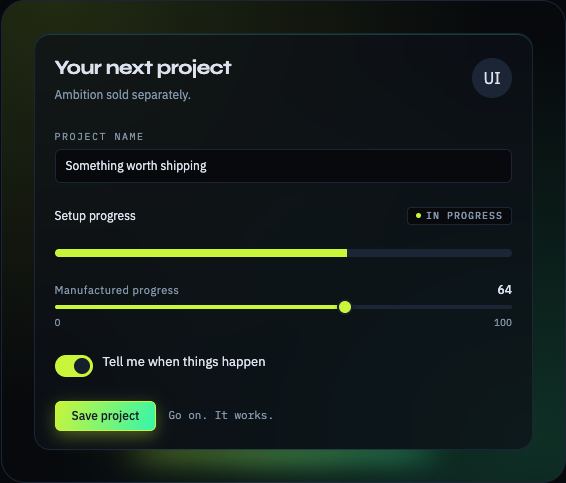
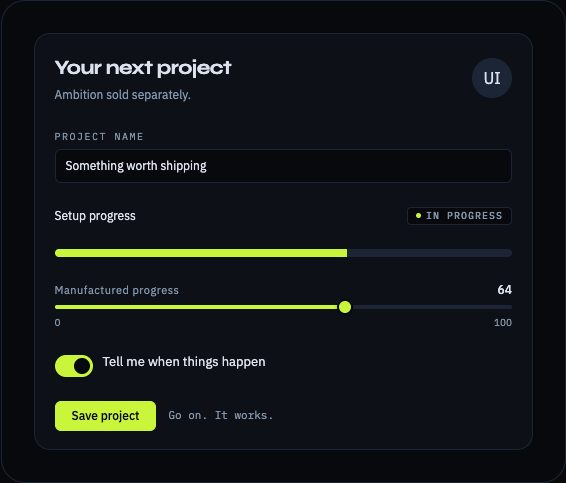
feat: refine modern gradients and coastal flat light

diff --git a/docs-site/components/Landing.tsx b/docs-site/components/Landing.tsx
@@ -1,7 +1,7 @@
 'use client';
 import { useState, type CSSProperties } from 'react';
 import { useTheme } from 'fumadocs-ui/provider/base';
-import { Avatar, Badge, Button, ButtonGroup, Card, GradientBackground, Input, Progress, PROJECTION_FLAT_THEME, FERNWOOD_FLAT_THEME, COASTAL_DAY_THEME, PROJECTION_THEME, Slider, ThemeProvider, Toggle } from '@hannasage/projection-ui/core';
+import { Avatar, Badge, Button, ButtonGroup, Card, GradientBackground, Input, Progress, PROJECTION_FLAT_THEME, COASTAL_DAY_FLAT_THEME, COASTAL_DAY_THEME, PROJECTION_THEME, Slider, ThemeProvider, Toggle } from '@hannasage/projection-ui/core';
 import '@hannasage/projection-ui/styles';
 
 export function Landing() {
@@ -12,6 +12,6 @@ export function Landing() {
   const [project,setProject] = useState('Something worth shipping');
   const [saved,setSaved] = useState(false);
   const light = resolvedTheme === 'light';
-  const theme = light ? (appearance === 'flat' ? FERNWOOD_FLAT_THEME : COASTAL_DAY_THEME) : (appearance === 'flat' ? PROJECTION_FLAT_THEME : PROJECTION_THEME);
-  return <div className="landing-shell"><header className="landing-nav"><a href="/" className="landing-wordmark">Projection UI<span aria-hidden="true">.</span></a><nav aria-label="Main navigation"><a href="/docs/">Docs</a><a href="/examples/?path=/story/gallery-components--paired">Gallery</a><button type="button" aria-label={light ? 'Switch to dark theme' : 'Switch to light theme'} onClick={() => setTheme(light ? 'dark' : 'light')}>{light ? 'Dark' : 'Light'}</button></nav></header><main id="nd-page" tabIndex={-1} className="landing-main"><section className="landing-hero" aria-labelledby="landing-title"><div className="landing-copy"><h1 id="landing-title">Yes. Another UI library.</h1><p className="landing-lead">This one has a thing for light.</p><p>React components, glass surfaces, and themes you can change without rebuilding your interface. You still have to build the app. Sorry.</p><div className="landing-actions"><a className="landing-primary" href="/docs/">Read the docs <span aria-hidden="true">↗</span></a><a href="/examples/?path=/story/gallery-components--paired">Poke the components</a></div><p className="landing-release">Alpha · 0.2.0-next.2 · Unpublished</p></div><div className="landing-demo"><div className="landing-demo-toolbar"><span>Actual components. Actual buttons.</span><ButtonGroup aria-label="Preview appearance" value={appearance} onChange={setAppearance} options={[{value:'neon',label:'Modern'},{value:'flat',label:'Flat'}]} /></div><ThemeProvider theme={theme} className="landing-preview" style={{'--ui-font': 'var(--reader-code)', '--ui-font-body': 'var(--reader-body)', '--ui-font-display': 'var(--reader-heading)', '--ui-font-mono': 'var(--reader-code)'} as CSSProperties}><GradientBackground variant="atmosphere" className="landing-preview-backdrop"><Card material="glass" edgeLight underglow className="landing-project-card"><div className="landing-card-heading"><div><h2>Your next project</h2><p>Ambition sold separately.</p></div><Avatar alt="Example profile" fallback="UI" size={40} /></div><Input label="Project name" value={project} onChange={event => {setProject(event.currentTarget.value);setSaved(false)}} /><div className="landing-progress"><span>Setup progress</span><Badge>In progress</Badge></div><Progress label="Setup progress" value={volume} /><Slider label="Manufactured progress" value={volume} onChange={setVolume} /><Toggle label="Tell me when things happen" checked={notifications} onChange={setNotifications} /><div className="landing-card-actions"><Button appearance="gradient" variant="primary" onClick={() => setSaved(true)} disabled={!project.trim()}>Save project</Button><span role="status">{saved ? 'Saved in this preview.' : 'Go on. It works.'}</span></div></Card></GradientBackground></ThemeProvider></div></section><section className="landing-details" aria-label="What is included"><div><h2>Some assembly required.</h2><p>Controls, forms, tables, charts, and a theme system. The boring parts are useful. The shiny parts are optional.</p><a href="/docs/installation/">Start with installation</a></div><div><h2>Keep the light. Or lose it.</h2><p>Modern themes add glass and edge light. Projection pairs lime with mint. Coastal Day pairs bright blue with deeper blue. Flat core themes keep solid surfaces. Your interface gets the final say.</p><a href="/docs/theming/">Explore the themes</a></div><div><h2>Alpha means alpha.</h2><p>This is an unpublished pre-release. The component interface can change. Read the contracts before introducing it to your production app.</p><a href="/docs/releases/">Read the release notes</a></div></section><section className="landing-last" aria-labelledby="landing-last-title"><h2 id="landing-last-title">The screenshots are nice.<br />The controls should be too.</h2><p>Try the paired gallery. Check the accepted inputs. Decide whether your project needs another dependency.</p><a href="/examples/?path=/story/gallery-components--paired">Open the component gallery <span aria-hidden="true">↗</span></a></section></main><footer className="landing-footer"><span>Projection UI</span><nav aria-label="Footer navigation"><a href="/docs/">Documentation</a><a href="https://github.com/hannasage/projection-ui">Source</a><a href="/font-licenses/NOTICE.txt">Font licenses</a></nav><span>Built to be used. Currently built to be tried.</span></footer></div>;
+  const theme = light ? (appearance === 'flat' ? COASTAL_DAY_FLAT_THEME : COASTAL_DAY_THEME) : (appearance === 'flat' ? PROJECTION_FLAT_THEME : PROJECTION_THEME);
+  return <div className="landing-shell"><header className="landing-nav"><a href="/" className="landing-wordmark">Projection UI<span aria-hidden="true">.</span></a><nav aria-label="Main navigation"><a href="/docs/">Docs</a><a href="/examples/?path=/story/gallery-components--paired">Gallery</a><button type="button" aria-label={light ? 'Switch to dark theme' : 'Switch to light theme'} onClick={() => setTheme(light ? 'dark' : 'light')}>{light ? 'Dark' : 'Light'}</button></nav></header><main id="nd-page" tabIndex={-1} className="landing-main"><section className="landing-hero" aria-labelledby="landing-title"><div className="landing-copy"><h1 id="landing-title">Yes. Another UI library.</h1><p className="landing-lead">This one has a thing for light.</p><p>React components, glass surfaces, and themes you can change without rebuilding your interface. You still have to build the app. Sorry.</p><div className="landing-actions"><a className="landing-primary" href="/docs/">Read the docs <span aria-hidden="true">↗</span></a><a href="/examples/?path=/story/gallery-components--paired">Poke the components</a></div><p className="landing-release">Alpha · 0.2.0-next.2 · Candidate</p></div><div className="landing-demo"><div className="landing-demo-toolbar"><span>Actual components. Actual buttons.</span><ButtonGroup aria-label="Preview appearance" value={appearance} onChange={setAppearance} options={[{value:'neon',label:'Modern'},{value:'flat',label:'Flat'}]} /></div><ThemeProvider theme={theme} className="landing-preview" style={{'--ui-font': 'var(--reader-code)', '--ui-font-body': 'var(--reader-body)', '--ui-font-display': 'var(--reader-heading)', '--ui-font-mono': 'var(--reader-code)'} as CSSProperties}><GradientBackground variant="atmosphere" className="landing-preview-backdrop"><Card material="glass" edgeLight underglow className="landing-project-card"><div className="landing-card-heading"><div><h2>Your next project</h2><p>Ambition sold separately.</p></div><Avatar alt="Example profile" fallback="UI" size={40} /></div><Input label="Project name" value={project} onChange={event => {setProject(event.currentTarget.value);setSaved(false)}} /><div className="landing-progress"><span>Setup progress</span><Badge>In progress</Badge></div><Progress label="Setup progress" value={volume} /><Slider label="Manufactured progress" value={volume} onChange={setVolume} /><Toggle label="Tell me when things happen" checked={notifications} onChange={setNotifications} /><div className="landing-card-actions"><Button appearance="gradient" variant="primary" onClick={() => setSaved(true)} disabled={!project.trim()}>Save project</Button><span role="status">{saved ? 'Saved in this preview.' : 'Go on. It works.'}</span></div></Card></GradientBackground></ThemeProvider></div></section><section className="landing-details" aria-label="What is included"><div><h2>Some assembly required.</h2><p>Controls, forms, tables, charts, and a theme system. The boring parts are useful. The shiny parts are optional.</p><a href="/docs/installation/">Start with installation</a></div><div><h2>Keep the light. Or lose it.</h2><p>Modern themes add glass and edge light. Projection adds a subtle lime gradient. Coastal Day uses a soft blue shift. Flat core themes keep solid surfaces. Your interface gets the final say.</p><a href="/docs/theming/">Explore the themes</a></div><div><h2>Alpha means alpha.</h2><p>This is an alpha pre-release. The component interface can change. Read the contracts before introducing it to your production app.</p><a href="/docs/releases/">Read the release notes</a></div></section><section className="landing-last" aria-labelledby="landing-last-title"><h2 id="landing-last-title">The screenshots are nice.<br />The controls should be too.</h2><p>Try the paired gallery. Check the accepted inputs. Decide whether your project needs another dependency.</p><a href="/examples/?path=/story/gallery-components--paired">Open the component gallery <span aria-hidden="true">↗</span></a></section></main><footer className="landing-footer"><span>Projection UI</span><nav aria-label="Footer navigation"><a href="/docs/">Documentation</a><a href="https://github.com/hannasage/projection-ui">Source</a><a href="/font-licenses/NOTICE.txt">Font licenses</a></nav><span>Built to be used. Currently built to be tried.</span></footer></div>;
 }

diff --git a/src/foundations.ts b/src/foundations.ts
@@ -4,7 +4,7 @@ const fonts = { font: "'IBM Plex Sans', sans-serif", fontBody: "'IBM Plex Sans',
 
 /** Native Figma palettes with the approved core theme refinements. */
 export const THEME_PRESETS = {
-  "projection": { ...fonts, bg: "#07090C", surface: "#0D1117", text: "#DDE3EE", muted: "#8396AB", border: "#1B2535", primary: "#C9F53A", primaryFg: "#17202A", partner: "#35F5AA", cyan: "#38D9FF", violet: "#B56AFF", pink: "#FF39AB", amber: "#FFD219", mint: "#35F5AA", success: "#35F5AA", warning: "#FFD219", danger: "#FF3D6A", mode: "dark", name: "Projection" },
+  "projection": { ...fonts, bg: "#07090C", surface: "#0D1117", text: "#DDE3EE", muted: "#8396AB", border: "#1B2535", primary: "#C9F53A", primaryFg: "#17202A", partner: "#A1F55B", cyan: "#38D9FF", violet: "#B56AFF", pink: "#FF39AB", amber: "#FFD219", mint: "#35F5AA", success: "#35F5AA", warning: "#FFD219", danger: "#FF3D6A", mode: "dark", name: "Projection" },
   "midnight-reef": { ...fonts, bg: "#021721", surface: "#062535", text: "#e2f2fa", muted: "#7abcd4", border: "#0e3c52", primary: "#FFD219", primaryFg: "#17202A", partner: "#00C8FF", cyan: "#38D9FF", violet: "#B56AFF", pink: "#FF39AB", amber: "#FFD219", mint: "#35F5AA", success: "#35F5AA", warning: "#FFD219", danger: "#FF3D6A", mode: "dark", name: "Midnight Reef" },
   "neon-arcade": { ...fonts, bg: "#0f0f23", surface: "#16162f", text: "#f4f4ff", muted: "#9aa1d8", border: "#2c2c58", primary: "#00F5D4", primaryFg: "#17202A", partner: "#B56AFF", cyan: "#38D9FF", violet: "#B56AFF", pink: "#FF39AB", amber: "#FFD219", mint: "#35F5AA", success: "#35F5AA", warning: "#FFD219", danger: "#FF3D6A", mode: "dark", name: "Neon Arcade" },
   "deep-forest": { ...fonts, bg: "#0d1612", surface: "#13211a", text: "#e8f6ee", muted: "#8ab89c", border: "#264133", primary: "#39FF88", primaryFg: "#17202A", partner: "#A4F53A", cyan: "#38D9FF", violet: "#B56AFF", pink: "#FF39AB", amber: "#FFD219", mint: "#35F5AA", success: "#35F5AA", warning: "#FFD219", danger: "#FF3D6A", mode: "dark", name: "Deep Forest" },
@@ -12,7 +12,7 @@ export const THEME_PRESETS = {
   "noir-bloom": { ...fonts, bg: "#0e0620", surface: "#180d38", text: "#f5eaff", muted: "#a080cc", border: "#2e1060", primary: "#FF39AB", primaryFg: "#17202A", partner: "#B56AFF", cyan: "#38D9FF", violet: "#B56AFF", pink: "#FF39AB", amber: "#FFD219", mint: "#35F5AA", success: "#35F5AA", warning: "#FFD219", danger: "#FF3D6A", mode: "dark", name: "Noir Bloom" },
   "dusk-protocol": { ...fonts, bg: "#1b1f2a", surface: "#242b3a", text: "#e5e9f0", muted: "#a7b0c0", border: "#3a435a", primary: "#35D9FF", primaryFg: "#17202A", partner: "#397BFF", cyan: "#38D9FF", violet: "#B56AFF", pink: "#FF39AB", amber: "#FFD219", mint: "#35F5AA", success: "#35F5AA", warning: "#FFD219", danger: "#FF3D6A", mode: "dark", name: "Dusk Protocol" },
   "pillow-fort": { ...fonts, bg: "#241529", surface: "#2e1d34", text: "#fdebf6", muted: "#c7a9c4", border: "#4b3155", primary: "#FF65D6", primaryFg: "#17202A", partner: "#FF39AB", cyan: "#38D9FF", violet: "#B56AFF", pink: "#FF39AB", amber: "#FFD219", mint: "#35F5AA", success: "#35F5AA", warning: "#FFD219", danger: "#FF3D6A", mode: "dark", name: "Pillow Fort" },
-  "coastal-day": { ...fonts, bg: "#F6FBFF", surface: "#FFFFFF", text: "#17202A", muted: "#485463", border: "#BFCBD8", primary: "#00C8FF", primaryFg: "#101820", partner: "#397BFF", cyan: "#38D9FF", violet: "#B56AFF", pink: "#FF39AB", amber: "#FFD219", mint: "#35F5AA", success: "#35F5AA", warning: "#FFD219", danger: "#FF3D6A", mode: "light", name: "Coastal Day" },
+  "coastal-day": { ...fonts, bg: "#F6FBFF", surface: "#FFFFFF", text: "#17202A", muted: "#485463", border: "#BFCBD8", primary: "#00C8FF", primaryFg: "#101820", partner: "#369FFF", cyan: "#38D9FF", violet: "#B56AFF", pink: "#FF39AB", amber: "#FFD219", mint: "#35F5AA", success: "#35F5AA", warning: "#FFD219", danger: "#FF3D6A", mode: "light", name: "Coastal Day" },
   "projection-light": { ...fonts, bg: "#F3F6F5", surface: "#FAFBFB", text: "#17202A", muted: "#485463", border: "#BFCBD8", primary: "#A4F53A", primaryFg: "#17202A", partner: "#35EB88", cyan: "#38D9FF", violet: "#B56AFF", pink: "#FF39AB", amber: "#FFD219", mint: "#35F5AA", success: "#35F5AA", warning: "#FFD219", danger: "#FF3D6A", mode: "light", name: "Fernwood" },
   "dust-and-flame": { ...fonts, bg: "#FFF9F3", surface: "#FFFFFF", text: "#17202A", muted: "#485463", border: "#BFCBD8", primary: "#FF842B", primaryFg: "#17202A", partner: "#FF479E", cyan: "#38D9FF", violet: "#B56AFF", pink: "#FF39AB", amber: "#FFD219", mint: "#35F5AA", success: "#35F5AA", warning: "#FFD219", danger: "#FF3D6A", mode: "light", name: "Dust & Flame" },
   "confetti-studio": { ...fonts, bg: "#FCF8FF", surface: "#FFFFFF", text: "#17202A", muted: "#485463", border: "#BFCBD8", primary: "#B56AFF", primaryFg: "#17202A", partner: "#FF47B7", cyan: "#38D9FF", violet: "#B56AFF", pink: "#FF39AB", amber: "#FFD219", mint: "#35F5AA", success: "#35F5AA", warning: "#FFD219", danger: "#FF3D6A", mode: "light", name: "Confetti Studio" },
@@ -38,8 +38,14 @@ export const FERNWOOD_FLAT_THEME = {
   primary: '#859900', primaryFg: '#ffffff', danger: '#dc322f',
   font: "'IBM Plex Mono', monospace",
 } as const satisfies UITheme & { name: string }
-/** Compatibility alias; the released light flat palette remains unchanged. */
-export const PROJECTION_LIGHT_FLAT_THEME = FERNWOOD_FLAT_THEME
+/** Original Coastal Day neutral palette with a solid neon-blue accent. */
+export const COASTAL_DAY_FLAT_THEME = {
+  ...COASTAL_DAY_THEME, name: 'Coastal Day Flat', appearance: 'flat',
+  bg: '#f6f8fa', surface: '#ffffff', border: '#d0d7de', text: '#24292f', muted: '#57606a',
+  primary: '#00C8FF', primaryFg: '#101820', danger: '#cf222e', font: "'IBM Plex Mono', monospace",
+} as const satisfies UITheme & { name: string }
+/** Compatibility export for the canonical blue light flat theme. */
+export const PROJECTION_LIGHT_FLAT_THEME = COASTAL_DAY_FLAT_THEME
 /** Fonts remain consumer supplied; this preset loads no font files. */
 export const DEFAULT_THEME = { ...PROJECTION_THEME, font: "'IBM Plex Mono', monospace" } as const
 

diff --git a/src/tokens/theme.css b/src/tokens/theme.css
@@ -12,7 +12,7 @@
   --ui-border: #1B2535;
   --ui-primary: #C9F53A;
   --ui-primary-fg: #17202A;
-  --ui-partner: #35F5AA;
+  --ui-partner: #A1F55B;
   --ui-cyan: #38D9FF;
   --ui-violet: #B56AFF;
   --ui-pink: #FF39AB;
@@ -21,9 +21,14 @@
   --ui-success: #35F5AA;
   --ui-warning: #FFD219;
   --ui-danger: #FF3D6A;
+  --ui-accent-end: #A1F55B;
+  --ui-accent-fill: linear-gradient(110deg, var(--ui-primary), var(--ui-accent-end));
+  --ui-accent-soft: linear-gradient(110deg, color-mix(in srgb, var(--ui-primary) 13%, transparent), color-mix(in srgb, var(--ui-accent-end) 13%, transparent));
+  --ui-surface-tint: linear-gradient(125deg, color-mix(in srgb, var(--ui-primary) 1.5%, transparent), color-mix(in srgb, var(--ui-accent-end) 1.5%, transparent));
+  --ui-field-fill: linear-gradient(125deg, color-mix(in srgb, var(--ui-primary) 2%, var(--ui-bg)), color-mix(in srgb, var(--ui-accent-end) 2%, var(--ui-bg)));
   --ui-accent-text: #C9F53A;
   --ui-gradient-start: #C9F53A;
-  --ui-gradient-end: #35F5AA;
+  --ui-gradient-end: #A1F55B;
   --ui-focus: var(--ui-primary);
   --ui-backdrop: rgba(0,0,0,0.55);
   --ui-radius-sm: 4px;
@@ -96,10 +101,12 @@ input[type="number"]::-webkit-outer-spin-button, input[type="number"]::-webkit-i
 :where([data-ui-theme]) .ui-surface {
   position: relative; isolation: isolate; background: var(--ui-surface); color: var(--ui-text);
   border: 1px solid var(--ui-border); border-radius: var(--ui-radius-lg); padding: var(--ui-space-xl);
+  background-image: var(--ui-surface-tint, none);
 }
 :where([data-ui-theme]) :is(.ui-surface[data-material="glass"], .ui-material-glass) {
   background: var(--ui-surface); background: color-mix(in srgb, var(--ui-surface) 72%, transparent);
   backdrop-filter: blur(16px); -webkit-backdrop-filter: blur(16px);
+  background-image: var(--ui-surface-tint, none);
 }
 :where([data-ui-theme]) :is(.ui-surface[data-edge-light], .ui-edge-light) {
   border-top-color: color-mix(in srgb, var(--ui-primary) 65%, var(--ui-border));
@@ -150,8 +157,8 @@ input[type="number"]::-webkit-outer-spin-button, input[type="number"]::-webkit-i
   appearance: none; -webkit-appearance: none; background: var(--ui-border); border: 0; border-radius: var(--ui-radius-full); overflow: hidden;
 }
 :where([data-ui-theme]) .ui-progress:not(:indeterminate)::-webkit-progress-bar { background: var(--ui-border); border-radius: inherit; }
-:where([data-ui-theme]) .ui-progress:not(:indeterminate)::-webkit-progress-value { background: var(--ui-primary); border-radius: inherit; }
-:where([data-ui-theme]) .ui-progress:not(:indeterminate)::-moz-progress-bar { background: var(--ui-primary); border-radius: inherit; }
+:where([data-ui-theme]) .ui-progress:not(:indeterminate)::-webkit-progress-value { background: var(--ui-accent-fill, var(--ui-primary)); border-radius: inherit; }
+:where([data-ui-theme]) .ui-progress:not(:indeterminate)::-moz-progress-bar { background: var(--ui-accent-fill, var(--ui-primary)); border-radius: inherit; }
 @media (forced-colors: active) {
   :where([data-ui-theme]) .ui-progress:not(:indeterminate) { appearance: auto; -webkit-appearance: auto; forced-color-adjust: auto; }
   :where([data-ui-theme]) .ui-progress:not(:indeterminate)::-webkit-progress-bar { background: Canvas; }
@@ -160,7 +167,7 @@ input[type="number"]::-webkit-outer-spin-button, input[type="number"]::-webkit-i
 }
 :where([data-ui-theme]) :where(.ui-material-glass, .ui-underglow) { position: relative; isolation: isolate; }
 :where([data-ui-theme]) .ui-button[data-variant="primary"][data-appearance="gradient"] {
-  background: var(--ui-primary); background-image: linear-gradient(110deg, var(--ui-primary), var(--ui-partner));
+  background: var(--ui-accent-fill, var(--ui-primary));
   box-shadow: 0 5px 16px color-mix(in srgb, var(--ui-primary) 35%, transparent);
 }
 :where([data-ui-theme]) .ui-field:focus-within {
@@ -197,6 +204,11 @@ input[type="number"]::-webkit-outer-spin-button, input[type="number"]::-webkit-i
 }
 :scope .ui-projection-glow { display: none; }
 }
+
+@media (forced-colors: active) {
+  :where([data-ui-theme]) { --ui-accent-fill: Highlight !important; --ui-accent-soft: Canvas !important; --ui-surface-tint: none !important; --ui-field-fill: Canvas !important; --ui-accent-text: CanvasText !important; }
+}
+:where([data-ui-theme][data-ui-appearance="flat"]) { --ui-accent-end: var(--ui-primary); --ui-accent-fill: var(--ui-primary); --ui-accent-soft: color-mix(in srgb, var(--ui-primary) 13%, transparent); --ui-surface-tint: none; --ui-field-fill: var(--ui-bg); }
 
 @media (prefers-reduced-motion: reduce) {
   :where([data-ui-theme]) .ui-skeleton, :where([data-ui-theme]) .ui-toast { animation: none !important; }

diff --git a/src/tokens/scoped.css b/src/tokens/scoped.css
@@ -12,7 +12,7 @@
   --ui-border: #1B2535;
   --ui-primary: #C9F53A;
   --ui-primary-fg: #17202A;
-  --ui-partner: #35F5AA;
+  --ui-partner: #A1F55B;
   --ui-cyan: #38D9FF;
   --ui-violet: #B56AFF;
   --ui-pink: #FF39AB;
@@ -21,9 +21,14 @@
   --ui-success: #35F5AA;
   --ui-warning: #FFD219;
   --ui-danger: #FF3D6A;
+  --ui-accent-end: #A1F55B;
+  --ui-accent-fill: linear-gradient(110deg, var(--ui-primary), var(--ui-accent-end));
+  --ui-accent-soft: linear-gradient(110deg, color-mix(in srgb, var(--ui-primary) 13%, transparent), color-mix(in srgb, var(--ui-accent-end) 13%, transparent));
+  --ui-surface-tint: linear-gradient(125deg, color-mix(in srgb, var(--ui-primary) 1.5%, transparent), color-mix(in srgb, var(--ui-accent-end) 1.5%, transparent));
+  --ui-field-fill: linear-gradient(125deg, color-mix(in srgb, var(--ui-primary) 2%, var(--ui-bg)), color-mix(in srgb, var(--ui-accent-end) 2%, var(--ui-bg)));
   --ui-accent-text: #C9F53A;
   --ui-gradient-start: #C9F53A;
-  --ui-gradient-end: #35F5AA;
+  --ui-gradient-end: #A1F55B;
   --ui-focus: var(--ui-primary);
   --ui-backdrop: rgba(0,0,0,0.55);
   --ui-radius-sm: 4px;
@@ -94,10 +99,12 @@
 :where([data-ui-theme]) .ui-surface {
   position: relative; isolation: isolate; background: var(--ui-surface); color: var(--ui-text);
   border: 1px solid var(--ui-border); border-radius: var(--ui-radius-lg); padding: var(--ui-space-xl);
+  background-image: var(--ui-surface-tint, none);
 }
 :where([data-ui-theme]) :is(.ui-surface[data-material="glass"], .ui-material-glass) {
   background: var(--ui-surface); background: color-mix(in srgb, var(--ui-surface) 72%, transparent);
   backdrop-filter: blur(16px); -webkit-backdrop-filter: blur(16px);
+  background-image: var(--ui-surface-tint, none);
 }
 :where([data-ui-theme]) :is(.ui-surface[data-edge-light], .ui-edge-light) {
   border-top-color: color-mix(in srgb, var(--ui-primary) 65%, var(--ui-border));
@@ -148,8 +155,8 @@
   appearance: none; -webkit-appearance: none; background: var(--ui-border); border: 0; border-radius: var(--ui-radius-full); overflow: hidden;
 }
 :where([data-ui-theme]) .ui-progress:not(:indeterminate)::-webkit-progress-bar { background: var(--ui-border); border-radius: inherit; }
-:where([data-ui-theme]) .ui-progress:not(:indeterminate)::-webkit-progress-value { background: var(--ui-primary); border-radius: inherit; }
-:where([data-ui-theme]) .ui-progress:not(:indeterminate)::-moz-progress-bar { background: var(--ui-primary); border-radius: inherit; }
+:where([data-ui-theme]) .ui-progress:not(:indeterminate)::-webkit-progress-value { background: var(--ui-accent-fill, var(--ui-primary)); border-radius: inherit; }
+:where([data-ui-theme]) .ui-progress:not(:indeterminate)::-moz-progress-bar { background: var(--ui-accent-fill, var(--ui-primary)); border-radius: inherit; }
 @media (forced-colors: active) {
   :where([data-ui-theme]) .ui-progress:not(:indeterminate) { appearance: auto; -webkit-appearance: auto; forced-color-adjust: auto; }
   :where([data-ui-theme]) .ui-progress:not(:indeterminate)::-webkit-progress-bar { background: Canvas; }
@@ -158,7 +165,7 @@
 }
 :where([data-ui-theme]) :where(.ui-material-glass, .ui-underglow) { position: relative; isolation: isolate; }
 :where([data-ui-theme]) .ui-button[data-variant="primary"][data-appearance="gradient"] {
-  background: var(--ui-primary); background-image: linear-gradient(110deg, var(--ui-primary), var(--ui-partner));
+  background: var(--ui-accent-fill, var(--ui-primary));
   box-shadow: 0 5px 16px color-mix(in srgb, var(--ui-primary) 35%, transparent);
 }
 :where([data-ui-theme]) .ui-field:focus-within {
@@ -195,6 +202,11 @@
 }
 :scope .ui-projection-glow { display: none; }
 }
+
+@media (forced-colors: active) {
+  :where([data-ui-theme]) { --ui-accent-fill: Highlight !important; --ui-accent-soft: Canvas !important; --ui-surface-tint: none !important; --ui-field-fill: Canvas !important; --ui-accent-text: CanvasText !important; }
+}
+:where([data-ui-theme][data-ui-appearance="flat"]) { --ui-accent-end: var(--ui-primary); --ui-accent-fill: var(--ui-primary); --ui-accent-soft: color-mix(in srgb, var(--ui-primary) 13%, transparent); --ui-surface-tint: none; --ui-field-fill: var(--ui-bg); }
 
 @media (prefers-reduced-motion: reduce) {
   :where([data-ui-theme]) .ui-skeleton, :where([data-ui-theme]) .ui-toast { animation: none !important; }

diff --git a/stories/Themes.stories.tsx b/stories/Themes.stories.tsx
@@ -1,6 +1,6 @@
 import { useState } from 'react'
 import type { Meta, StoryObj } from '@storybook/react'
-import { Badge, Button, FERNWOOD_FLAT_THEME, PROJECTION_FLAT_THEME, Card, GradientBackground, GradientText, Surface, THEME_PRESETS, ThemeProvider } from '@hannasage/projection-ui/core'
+import { Badge, Button, COASTAL_DAY_FLAT_THEME, FERNWOOD_FLAT_THEME, PROJECTION_FLAT_THEME, Card, GradientBackground, GradientText, Surface, THEME_PRESETS, ThemeProvider } from '@hannasage/projection-ui/core'
 const meta: Meta = { title: 'Foundations/Themes', parameters: { layout: 'fullscreen' } }
 export default meta
 export const Presets: StoryObj = { render: () => <main className="component-gallery"><h1>Theme presets</h1><p>Every preset supplies the same theme roles.</p><div className="theme-presets">{Object.entries(THEME_PRESETS).map(([id, theme]) => <ThemeProvider key={id} theme={theme}><h2 style={{marginTop:0}}>{theme.name}</h2><p>{theme.mode === 'light' ? 'Light' : 'Dark'} theme</p><Card material="glass" edgeLight><Badge>Preview</Badge><p>Clear type and a quiet material.</p><Button appearance="gradient" onClick={event => { event.currentTarget.textContent = 'Selected' }}>Select preset</Button></Card></ThemeProvider>)}</div></main> }
@@ -8,7 +8,7 @@ export const Materials: StoryObj = { render: () => <main className="component-ga
 export const Gradients: StoryObj = { render: () => <main className="component-gallery"><h1>Gradient backgrounds</h1><ThemeProvider theme={THEME_PRESETS.projection}><div className="theme-presets">{(['wash','spotlight','horizon','atmosphere'] as const).map(variant => <GradientBackground key={variant} variant={variant} style={{padding:24,minHeight:180}}><h2 style={{marginTop:0}}>{variant}</h2><GradientText>Projection UI</GradientText></GradientBackground>)}</div></ThemeProvider></main> }
 export const Typography: StoryObj = { render: () => <main className="component-gallery"><h1>Typography</h1><ThemeProvider theme={THEME_PRESETS.projection} style={{padding:24}}><h2 style={{fontFamily:'var(--ui-font-display)'}}>Syne · A clear point of view</h2><p style={{fontFamily:'var(--ui-font-body)',maxWidth:'68ch'}}>IBM Plex Sans carries reading text. Compact headings keep the page calm. Give related controls a close rhythm, then leave space before the next subject.</p><pre style={{fontFamily:'var(--ui-font-mono)',whiteSpace:'pre-wrap'}}>IBM Plex Mono · --ui-font-mono</pre></ThemeProvider></main> }
 
-export const Flat: StoryObj = { render: () => <main className="component-gallery"><h1>Flat core themes</h1><p>The original core palettes with solid surfaces.</p><div className="theme-presets">{[{name:'Fernwood Flat',theme:FERNWOOD_FLAT_THEME},{name:'Projection Flat',theme:PROJECTION_FLAT_THEME}].map(({name,theme}) => <ThemeProvider key={name} theme={theme}><h2 style={{marginTop:0}}>{name}</h2><Card material="glass" edgeLight underglow><p>Flat appearance keeps surfaces solid and removes decorative light.</p><Button appearance="gradient" onClick={event => {event.currentTarget.textContent = 'Selected'}}>Select flat theme</Button></Card></ThemeProvider>)}</div></main> }
+export const Flat: StoryObj = { render: () => <main className="component-gallery"><h1>Flat core themes</h1><p>Solid surfaces for the core pair, with the original Fernwood palette still available.</p><div className="theme-presets">{[COASTAL_DAY_FLAT_THEME,PROJECTION_FLAT_THEME,FERNWOOD_FLAT_THEME].map(theme => <ThemeProvider key={theme.name} theme={theme}><h2 style={{marginTop:0}}>{theme.name}</h2><Card material="glass" edgeLight underglow><p>Flat appearance keeps surfaces solid and removes decorative light.</p><Button appearance="gradient" onClick={event => {event.currentTarget.textContent = 'Selected'}}>Select flat theme</Button></Card></ThemeProvider>)}</div></main> }
 
 function PresetExplorer() {
   const [id,setId] = useState<keyof typeof THEME_PRESETS>('projection')

diff --git a/stories/Gallery.stories.tsx b/stories/Gallery.stories.tsx
@@ -1,7 +1,7 @@
 import { useState } from 'react'
 import { BarChart, DEFAULT_CHART_COLORS } from '@hannasage/projection-ui/charts'
 import type { Meta, StoryObj } from '@storybook/react'
-import { Accordion, Alert, Avatar, Badge, Button, ButtonGroup, Card, Carousel, Checkbox, DataTable, FERNWOOD_FLAT_THEME, COASTAL_DAY_THEME, GradientBackground, GradientText, Input, LinkButton, Modal, Notification, Progress, PROJECTION_FLAT_THEME, PROJECTION_THEME, RadioGroup, Separator, Skeleton, Slider, Spinner, Surface, Tabs, Textarea, ThemeProvider, Toggle, Tooltip } from '@hannasage/projection-ui/core'
+import { Accordion, Alert, Avatar, Badge, Button, ButtonGroup, Card, Carousel, Checkbox, DataTable, COASTAL_DAY_FLAT_THEME, COASTAL_DAY_THEME, GradientBackground, GradientText, Input, LinkButton, Modal, Notification, Progress, PROJECTION_FLAT_THEME, PROJECTION_THEME, RadioGroup, Separator, Skeleton, Slider, Spinner, Surface, Tabs, Textarea, ThemeProvider, Toggle, Tooltip } from '@hannasage/projection-ui/core'
 
 const meta: Meta = { title: 'Gallery/Components', includeStories: ['Paired'], parameters: { layout: 'fullscreen' } }
 export default meta
@@ -89,6 +89,6 @@ function Sample({ category }: { category: string }) {
 }
 function Gallery() {
   const [appearance,setAppearance] = useState('neon')
-  return <main className="component-gallery"><header><h1>Components</h1><p>Coastal Day in the light. Projection in the dark.</p><a href="/docs/">Read the documentation</a><div className="gallery-mode"><ButtonGroup aria-label="Core appearance" value={appearance} onChange={setAppearance} options={[{value:'neon',label:'Modern materials'},{value:'flat',label:'Flat · v0.1 palettes'}]} /></div></header>{galleryCategories.map(category => <section key={category} aria-label={category}><h2>{category}</h2>{!nativeCategories.has(category) && <p className="gallery-kind">Composition using library components</p>}<div className="gallery-pair">{[{name:appearance === 'flat' ? 'Fernwood Flat · Light' : 'Coastal Day · Light',theme:appearance === 'flat' ? FERNWOOD_FLAT_THEME : COASTAL_DAY_THEME},{name:'Projection · Dark',theme:appearance === 'flat' ? PROJECTION_FLAT_THEME : PROJECTION_THEME}].map(({name,theme}) => <ThemeProvider key={name} theme={theme} className="gallery-theme"><p className="gallery-theme-label">{theme.name} · {theme.mode === 'light' ? 'Light' : 'Dark'}</p><div className="gallery-sample"><Sample category={categorySamples[category]} /></div></ThemeProvider>)}</div></section>)}</main>
+  return <main className="component-gallery"><header><h1>Components</h1><p>Coastal Day in the light. Projection in the dark.</p><a href="/docs/">Read the documentation</a><div className="gallery-mode"><ButtonGroup aria-label="Core appearance" value={appearance} onChange={setAppearance} options={[{value:'neon',label:'Modern materials'},{value:'flat',label:'Flat surfaces'}]} /></div></header>{galleryCategories.map(category => <section key={category} aria-label={category}><h2>{category}</h2>{!nativeCategories.has(category) && <p className="gallery-kind">Composition using library components</p>}<div className="gallery-pair">{[{name:appearance === 'flat' ? 'Coastal Day Flat · Light' : 'Coastal Day · Light',theme:appearance === 'flat' ? COASTAL_DAY_FLAT_THEME : COASTAL_DAY_THEME},{name:'Projection · Dark',theme:appearance === 'flat' ? PROJECTION_FLAT_THEME : PROJECTION_THEME}].map(({name,theme}) => <ThemeProvider key={name} theme={theme} className="gallery-theme"><p className="gallery-theme-label">{theme.name} · {theme.mode === 'light' ? 'Light' : 'Dark'}</p><div className="gallery-sample"><Sample category={categorySamples[category]} /></div></ThemeProvider>)}</div></section>)}</main>
 }
 export const Paired: StoryObj = { render: () => <Gallery /> }

diff --git a/src/components/Widgets.tsx b/src/components/Widgets.tsx
@@ -28,7 +28,7 @@ export function Tabs({ items, value, defaultValue, onValueChange, label = 'Tabs'
   const id = useId(); const [selected, select] = useValue(value, defaultValue ?? items.find(item => !item.disabled)?.value ?? '', onValueChange)
   const buttons = useRef<Array<HTMLButtonElement | null>>([])
   const active = items.find(item => item.value === selected && !item.disabled) ?? items.find(item => !item.disabled)
-  return <div {...rest} style={{ fontFamily: 'var(--ui-font-body, var(--ui-font))', color: 'var(--ui-text)', ...style }}><div role="tablist" aria-label={label} style={{ display: 'flex', gap: 4, borderBottom: '1px solid var(--ui-border)' }}>{items.map((item, index) => <button key={item.value} ref={node => { buttons.current[index] = node }} type="button" role="tab" id={`${id}-tab-${index}`} aria-controls={`${id}-panel-${index}`} aria-selected={active?.value === item.value} tabIndex={active?.value === item.value ? 0 : -1} disabled={item.disabled} style={{ ...control, border: 0, borderBottom: active?.value === item.value ? '2px solid var(--ui-primary)' : '2px solid transparent', borderRadius: 0, opacity: item.disabled ? .45 : 1 }} onClick={() => select(item.value)} onKeyDown={event => {
+  return <div {...rest} style={{ fontFamily: 'var(--ui-font-body, var(--ui-font))', color: 'var(--ui-text)', ...style }}><div role="tablist" aria-label={label} style={{ display: 'flex', gap: 4, borderBottom: '1px solid var(--ui-border)' }}>{items.map((item, index) => <button key={item.value} ref={node => { buttons.current[index] = node }} type="button" role="tab" id={`${id}-tab-${index}`} aria-controls={`${id}-panel-${index}`} aria-selected={active?.value === item.value} tabIndex={active?.value === item.value ? 0 : -1} disabled={item.disabled} style={{ ...control, background: active?.value === item.value ? 'var(--ui-accent-soft, transparent)' : 'transparent', color: active?.value === item.value ? 'var(--ui-accent-text, var(--ui-text))' : 'var(--ui-text)', border: 0, borderBottom: active?.value === item.value ? '2px solid var(--ui-primary)' : '2px solid transparent', borderRadius: 0, opacity: item.disabled ? .45 : 1 }} onClick={() => select(item.value)} onKeyDown={event => {
     const enabled = items.map((entry, i) => entry.disabled ? -1 : i).filter(i => i >= 0)
     const position = enabled.indexOf(index)
     let next: number | undefined

diff --git a/src/components/ThemeProvider.tsx b/src/components/ThemeProvider.tsx
@@ -19,6 +19,7 @@ export function ThemeProvider({
   as: Tag = 'div',
 }: ThemeProviderProps): React.ReactElement {
   const r = RADIUS_SCALE[theme.radius]
+  const flat = theme.appearance === 'flat'
   const fontOverride = (style as Record<string, unknown> | undefined)?.['--ui-font']
 
   const vars: React.CSSProperties & Record<string, string> = {
@@ -35,6 +36,11 @@ export function ThemeProvider({
     '--ui-font-body': fontOverride ? 'var(--ui-font)' : theme.fontBody ?? 'var(--ui-font)',
     '--ui-font-mono': fontOverride ? 'var(--ui-font)' : theme.fontMono ?? 'var(--ui-font)',
     '--ui-partner': theme.partner ?? 'var(--ui-primary)',
+    '--ui-accent-end': flat ? theme.primary : (theme.partner ?? theme.primary),
+    '--ui-accent-fill': flat ? 'var(--ui-primary)' : 'linear-gradient(110deg, var(--ui-primary), var(--ui-accent-end))',
+    '--ui-accent-soft': flat ? 'color-mix(in srgb, var(--ui-primary) 13%, transparent)' : 'linear-gradient(110deg, color-mix(in srgb, var(--ui-primary) 13%, transparent), color-mix(in srgb, var(--ui-accent-end) 13%, transparent))',
+    '--ui-surface-tint': flat ? 'none' : 'linear-gradient(125deg, color-mix(in srgb, var(--ui-primary) 1.5%, transparent), color-mix(in srgb, var(--ui-accent-end) 1.5%, transparent))',
+    '--ui-field-fill': flat ? 'var(--ui-bg)' : 'linear-gradient(125deg, color-mix(in srgb, var(--ui-primary) 2%, var(--ui-bg)), color-mix(in srgb, var(--ui-accent-end) 2%, var(--ui-bg)))',
     '--ui-glow': theme.glow ?? '0.65',
     '--ui-gradient-start': theme.mode === 'light' ? theme.text : theme.primary,
     '--ui-gradient-end': theme.mode === 'light' ? 'color-mix(in srgb, var(--ui-text) 65%, var(--ui-partner))' : (theme.partner ?? theme.primary),

diff --git a/src/components/ButtonGroup.tsx b/src/components/ButtonGroup.tsx
@@ -108,7 +108,7 @@ export function ButtonGroup<T extends string = string>({
                 fontFamily:     'var(--ui-font-body, var(--ui-font))',
                 fontWeight:     isActive ? 600 : 400,
                 background:     isActive
-                  ? 'color-mix(in srgb, var(--ui-primary) 13%, transparent)'
+                  ? 'var(--ui-accent-soft, color-mix(in srgb, var(--ui-primary) 13%, transparent))'
                   : 'transparent',
                 color:          isActive ? 'var(--ui-accent-text, var(--ui-primary))' : 'var(--ui-muted)',
                 border:         'none',
@@ -171,7 +171,7 @@ export function ButtonGroup<T extends string = string>({
               fontFamily:     'var(--ui-font-body, var(--ui-font))',
               fontWeight:     isActive ? 600 : 400,
               background:     isActive
-                ? 'color-mix(in srgb, var(--ui-primary) 13%, transparent)'
+                ? 'var(--ui-accent-soft, color-mix(in srgb, var(--ui-primary) 13%, transparent))'
                 : 'transparent',
               color:          isActive ? 'var(--ui-accent-text, var(--ui-primary))' : 'var(--ui-muted)',
               border:         isActive

diff --git a/src/components/Slider.tsx b/src/components/Slider.tsx
@@ -48,7 +48,7 @@ export function Slider({
           background: linear-gradient(
             to right,
             var(--ui-primary) 0%,
-            var(--ui-primary) var(--ui-slider-pct, 0%),
+            var(--ui-accent-end, var(--ui-primary)) var(--ui-slider-pct, 0%),
             var(--ui-border)  var(--ui-slider-pct, 0%),
             var(--ui-border)  100%
           );
@@ -63,7 +63,7 @@ export function Slider({
           width: 16px;
           height: 16px;
           border-radius: var(--ui-radius-full);
-          background: var(--ui-primary);
+          background: var(--ui-accent-fill, var(--ui-primary));
           border: 2px solid var(--ui-primary-fg);
           box-shadow: 0 1px 4px rgba(0,0,0,0.3);
           cursor: pointer;
@@ -76,7 +76,7 @@ export function Slider({
           width: 16px;
           height: 16px;
           border-radius: var(--ui-radius-full);
-          background: var(--ui-primary);
+          background: var(--ui-accent-fill, var(--ui-primary));
           border: 2px solid var(--ui-primary-fg);
           box-shadow: 0 1px 4px rgba(0,0,0,0.3);
           cursor: pointer;

diff --git a/src/core.ts b/src/core.ts
@@ -28,7 +28,7 @@ export { Toggle } from './components/forms/Toggle'
 export type { ToggleProps } from './components/forms/Toggle'
 export * from './components/Content'
 export type { UITheme, UIRadius } from './theme'
-export { DEFAULT_THEME, PROJECTION_THEME, COASTAL_DAY_THEME, PROJECTION_LIGHT_THEME, FERNWOOD_THEME, THEME_PRESETS, PROJECTION_FLAT_THEME, PROJECTION_LIGHT_FLAT_THEME, FERNWOOD_FLAT_THEME, RADIUS_SCALE, UI_FOUNDATIONS } from './foundations'
+export { DEFAULT_THEME, PROJECTION_THEME, COASTAL_DAY_THEME, COASTAL_DAY_FLAT_THEME, PROJECTION_LIGHT_THEME, FERNWOOD_THEME, THEME_PRESETS, PROJECTION_FLAT_THEME, PROJECTION_LIGHT_FLAT_THEME, FERNWOOD_FLAT_THEME, RADIUS_SCALE, UI_FOUNDATIONS } from './foundations'
 export * from './components/Materials'
 export * from './components/Widgets'
 

diff --git a/src/index.ts b/src/index.ts
@@ -5,7 +5,7 @@ import './tokens/theme.css'
 export * from './components/index'
 export type { UITheme, UIRadius } from './theme'
 export { RADIUS_SCALE }           from './theme'
-export { DEFAULT_THEME, PROJECTION_THEME, COASTAL_DAY_THEME, PROJECTION_LIGHT_THEME, FERNWOOD_THEME, THEME_PRESETS, PROJECTION_FLAT_THEME, PROJECTION_LIGHT_FLAT_THEME, FERNWOOD_FLAT_THEME, UI_FOUNDATIONS } from './foundations'
+export { DEFAULT_THEME, PROJECTION_THEME, COASTAL_DAY_THEME, COASTAL_DAY_FLAT_THEME, PROJECTION_LIGHT_THEME, FERNWOOD_THEME, THEME_PRESETS, PROJECTION_FLAT_THEME, PROJECTION_LIGHT_FLAT_THEME, FERNWOOD_FLAT_THEME, UI_FOUNDATIONS } from './foundations'
 export * from './components/Materials'
 export * from './components/Widgets'
 export * from './components/Content'
